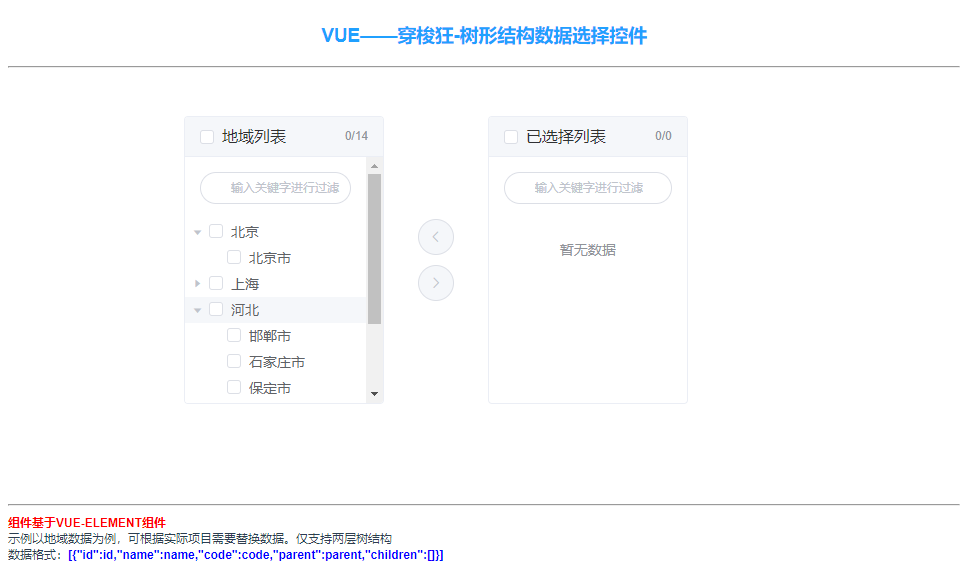
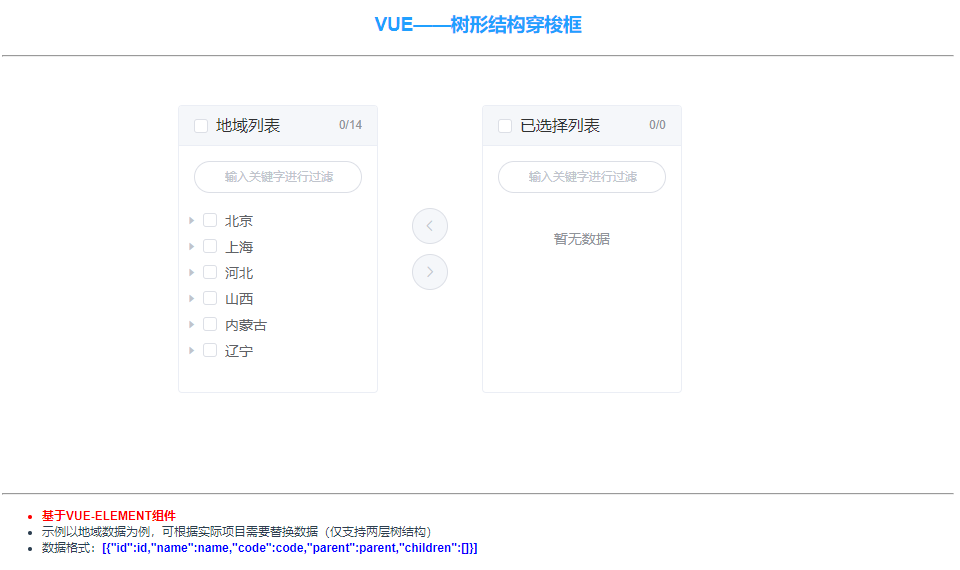
update

diff --git a/src/components/HelloWorld.vue b/src/components/HelloWorld.vue
@@ -1,6 +1,6 @@
 <template>
   <div style="margin:0 auto;width:50%;">
-    <h3 style="color:#20A0FF">VUE——穿梭狂-树形结构数据选择控件</h3>
+    <h3 style="color:#20A0FF">VUE——树形结构穿梭框</h3>
     <hr>
     <div style="margin:0 auto;padding-top:40px;width:600px;height:380px;text-align: left">
 
@@ -19,11 +19,12 @@
     </div>
     <hr>
     <div style="text-align: left;font-size: 10px" >
-      <span style="font-weight: bold;color:red">组件基于VUE-ELEMENT组件</span>
-      <br>
-      示例以地域数据为例，可根据实际项目需要替换数据。仅支持两层树结构
-      <br>
-      数据格式：<span style="color:blue;font-weight: bolder">[{"id":id,"name":name,"code":code,"parent":parent,"children":[]}]</span>
+      <ul>
+        <li  style="font-weight: bold;color:red">基于VUE-ELEMENT组件</li>
+        <li>示例以地域数据为例，可根据实际项目需要替换数据（仅支持两层树结构）</li>
+        <li> 数据格式：<span style="color:blue;font-weight: bolder">[{"id":id,"name":name,"code":code,"parent":parent,"children":[]}]</span></li>
+      </ul>
+
     </div>
 
   </div>
@@ -66,15 +67,5 @@
 h1, h2 {
   font-weight: normal;
 }
-ul {
-  list-style-type: none;
-  padding: 0;
-}
-li {
-  display: inline-block;
-  margin: 0 10px;
-}
-a {
-  color: #42b983;
-}
+ 
 </style>
